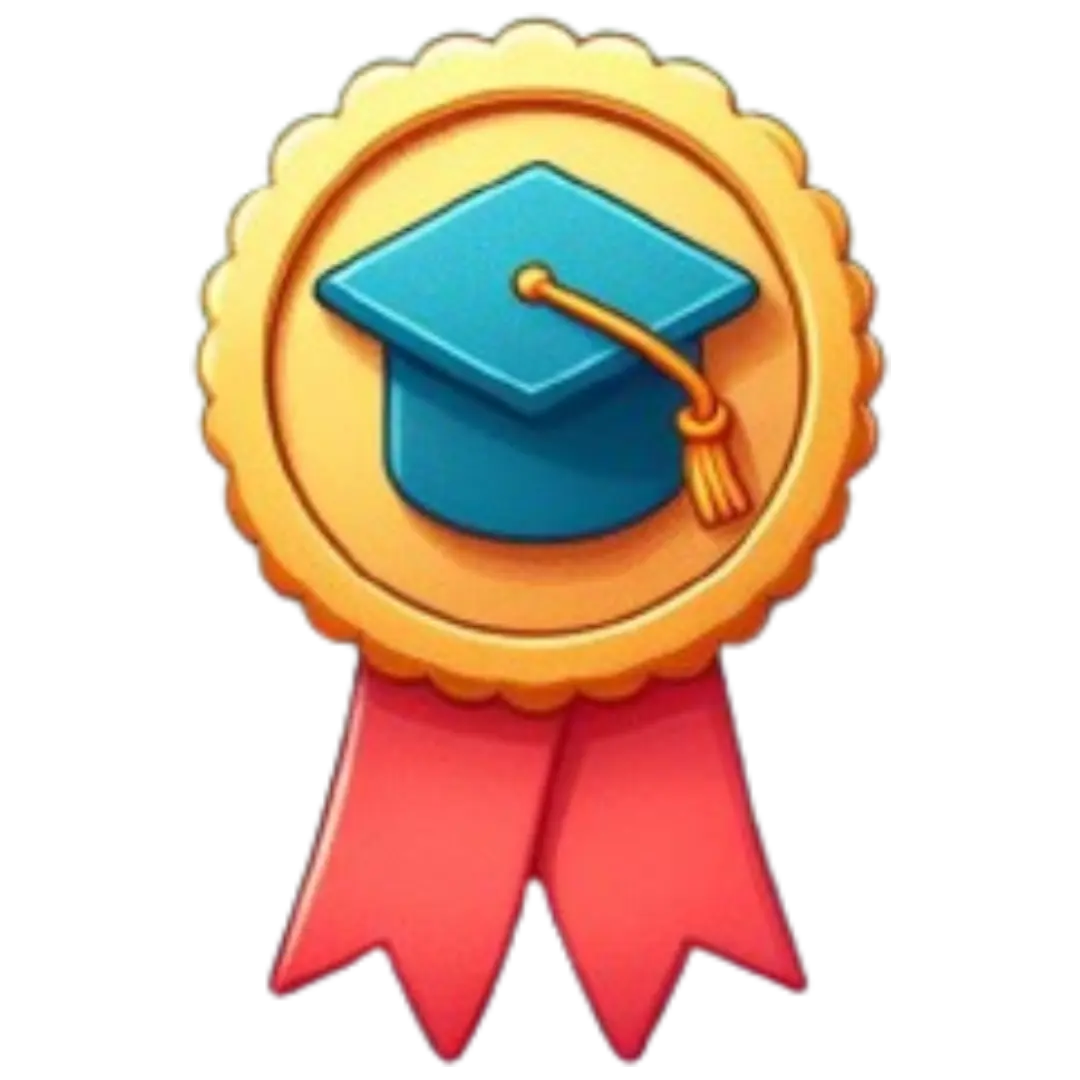
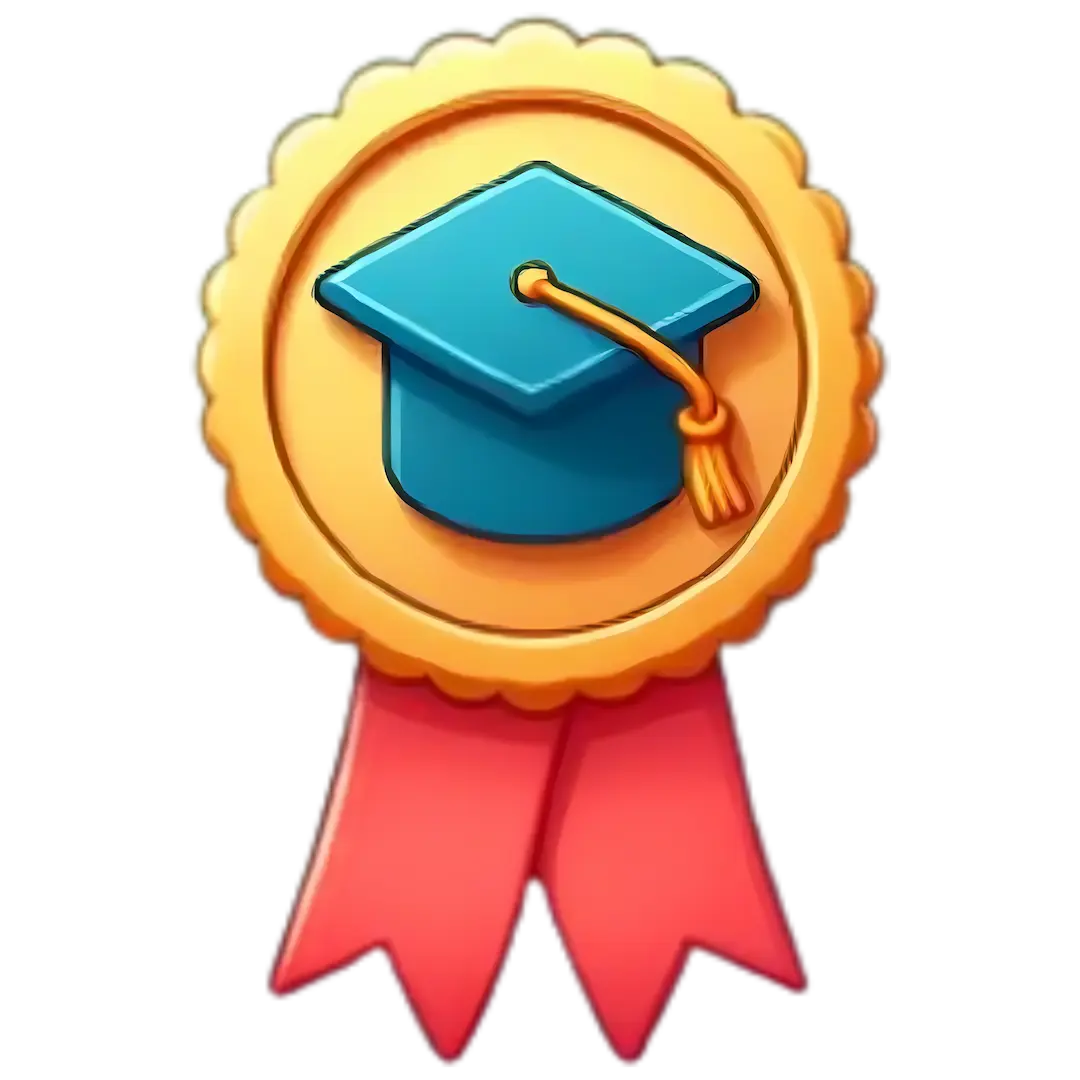
nuevas imagenes hd

diff --git a/assets/css/modal.css b/assets/css/modal.css
@@ -27,19 +27,19 @@
 
 .cir i {
     color: black;
-    font-size: 3rem;
+    font-size: 2rem;
     transition: all 0.2s ease-in;
 }
 
 .cir a {
-    width: 80px;
-    height: 80px;
+    width: 60px;
+    height: 60px;
     display: flex;
     align-items: center;
     justify-content: center;
     padding: 2px;
     margin: 10px;
-    border: 4px solid black;
+    border: 3px solid black;
     border-radius: 50%;
     transition: all 0.2s ease-in;
 }

diff --git a/assets/css/main.css b/assets/css/main.css
@@ -1905,3 +1905,14 @@ section,
 .perfil {
   position: absolute;
 }
+
+.salas-lista {
+  flex-direction: column;
+  justify-content: center;
+  /* align-items: center; */
+  margin: 20px;
+}
+
+.salas-lista .texto-salas{
+  text-align: left;
+}

diff --git a/assets/css/login.css b/assets/css/login.css
@@ -10,7 +10,7 @@ body {
     align-items: center;
     justify-content: center;
     height: 100vh;
-    background-image: url(../img/escuela.webp);
+    background-image: url(../img/importancia.webp);
     background-size: cover;
 }
 

diff --git a/bd/salas.php b/bd/salas.php
@@ -3,7 +3,15 @@ include 'conexion_be.php';
 
 session_start();
 
-if (isset($_POST['accion']) && $_POST['accion'] === 'nuevo') {
+
+$codigo_sala = $_GET['sala'] ?? null;
+$action = $_GET['action'] ?? null;
+
+if ($action === 'entrar') {
+    salaExistente2($conexion);
+} else if ($action === 'salir') {
+    salir($conexion);
+} else if (isset($_POST['accion']) && $_POST['accion'] === 'nuevo') {
     nuevaSala($conexion);
 } else {
     salaExistente($conexion);
@@ -205,5 +213,104 @@ function nuevaSala($conexion)
                 echo "Error al crear la sala: " . $conexion->error;
             }
         }
+    }
+}
+
+function salaExistente2($conexion)
+{
+    $codigo_sala = $_GET['sala'];
+    $nombre_usuario = $_SESSION['usuario'];
+
+    // Verificar si el usuario ya está en la sala
+    $consulta_existencia_estadisticas = "SELECT * FROM estadisticas WHERE usuario_nombre = '$nombre_usuario' AND codigo_sala = '$codigo_sala'";
+    $resultado_existencia_estadisticas = $conexion->query($consulta_existencia_estadisticas);
+
+    if ($resultado_existencia_estadisticas->num_rows > 0) {
+        $salaDificultad = "SELECT facil, medio, dificil FROM salas WHERE codigo_sala = '$codigo_sala'";
+        $resultadoSala = $conexion->query($salaDificultad);
+        $resultadoSala = $conexion->query($salaDificultad);
+        if ($resultadoSala) {
+            if ($resultadoSala->num_rows > 0) {
+                $filaRes = $resultadoSala->fetch_assoc();
+                $df1 = $filaRes["facil"];
+                $df2 = $filaRes["medio"];
+                $df3 = $filaRes["dificil"];
+                // Si el usuario ya está en la sala, redirigir a la página de temas
+                $update_usuarioYsala = "UPDATE usuarioysala SET codigo_sala = '$codigo_sala' WHERE usuario = '$nombre_usuario'";
+                $res = $conexion->query($update_usuarioYsala);
+                header("location: ../categoria.php?codigoSala=$codigo_sala&df1=$df1&df2=$df2&df3=$df3");
+                exit();
+            } else {
+                echo "No se encontraron resultados para el código de sala: $codigo_sala";
+            }
+        } else {
+            echo "Error al ejecutar la consulta: " . $conexion->error;
+        }
+        // header("location: ../categoria.php?codigoSala=$codigo_sala");
+        exit();
+    } else {
+        // Si el usuario no está en la sala, insertarlo en la tabla de Estadisticas
+        $consulta_sala_existente = "SELECT * FROM salas WHERE codigo_sala = '$codigo_sala'";
+        $resultado_sala_existente = $conexion->query($consulta_sala_existente);
+
+        if ($resultado_sala_existente->num_rows > 0) {
+            $consulta_existencia_usuarioEnSala = "SELECT * FROM usuarioysala WHERE usuario = '$nombre_usuario'";
+            $resultado_existencia_usuarioEnSala = $conexion->query($consulta_existencia_usuarioEnSala);
+
+            if (!($resultado_existencia_usuarioEnSala->num_rows > 0)) {
+                $insert_usuarioYsala = "INSERT INTO usuarioysala (usuario, codigo_sala) VALUES ('$nombre_usuario', '$codigo_sala')";
+                $rest = $conexion->query($insert_usuarioYsala);
+            } else {
+                $update_usuarioYsala = "UPDATE usuarioysala SET codigo_sala = '$codigo_sala' WHERE usuario = '$nombre_usuario'";
+                $res = $conexion->query($update_usuarioYsala);
+            }
+
+
+            // Si la sala existe, insertar al usuario en la tabla de Estadisticas
+            $insertar_usuario_estadisticas = "INSERT INTO estadisticas (usuario_nombre, codigo_sala) VALUES ('$nombre_usuario', '$codigo_sala')";
+            $insertar_usuario_estadisticas2 = "INSERT INTO estadisticasbasicas (usuario_nombre, codigo_sala) VALUES ('$nombre_usuario', '$codigo_sala')";
+            $conexion->query($insertar_usuario_estadisticas);
+            $conexion->query($insertar_usuario_estadisticas2);
+
+            $salaDificultad = "SELECT facil, medio, dificil FROM salas WHERE codigo_sala = '$codigo_sala'";
+            $resultadoSala = $conexion->query($salaDificultad);
+            $resultadoSala = $conexion->query($salaDificultad);
+            if ($resultadoSala) {
+                if ($resultadoSala->num_rows > 0) {
+                    $filaRes = $resultadoSala->fetch_assoc();
+                    $df1 = $filaRes["facil"];
+                    $df2 = $filaRes["medio"];
+                    $df3 = $filaRes["dificil"];
+                    header("location: ../categoria.php?codigoSala=$codigo_sala&df1=$df1&df2=$df2&df3=$df3");
+                    exit();
+                } else {
+                    echo "No se encontraron resultados para el código de sala: $codigo_sala";
+                }
+            } else {
+                echo "Error al ejecutar la consulta: " . $conexion->error;
+            }
+        } else {
+            // Si la sala no existe, mostrar un mensaje de error
+            header("location: ../index.php?error=sala_no_encontrada");
+            exit();
+        }
+    }
+}
+
+function salir($conexion)
+{
+    $codigo_sala = $_GET['sala'];
+    $nombre_usuario = $_SESSION['usuario'];
+
+    // Eliminar los registros del usuario en las tablas estadisticas y estadisticasbasicas
+    $eliminarEstadisticas = "DELETE FROM estadisticas WHERE usuario_nombre = '$nombre_usuario' AND codigo_sala = '$codigo_sala'";
+    $eliminarEstadisticasBasicas = "DELETE FROM estadisticasbasicas WHERE usuario_nombre = '$nombre_usuario' AND codigo_sala = '$codigo_sala'";
+
+    if ($conexion->query($eliminarEstadisticas) && $conexion->query($eliminarEstadisticasBasicas)) {
+        // Redirigir al usuario a una página de confirmación o a la página principal
+        header("Location: ../index.php?mensaje=salida_exitosa");
+        exit();
+    } else {
+        echo "Error al eliminar los registros: " . $conexion->error;
     }
 }

diff --git a/index.php b/index.php
@@ -90,7 +90,7 @@ session_start();
             </div>
           </div>
           <div class="col-lg-6 order-1 order-lg-2 hero-img" data-aos="zoom-out" data-aos-delay="200">
-            <img src="assets/img/lander.webp" class="img-fluid animated" alt="Ortographic Lander">
+            <img src="assets/img/hero-ort.webp" class="img-fluid animated" alt="Ortographic Lander">
           </div>
         </div>
       </div>
@@ -224,7 +224,7 @@ session_start();
     <!-- Call To Action Section -->
     <section id="call-to-action" class="call-to-action section">
 
-      <img src="assets/img/escuela.webp" alt="">
+      <img src="assets/img/importancia.webp" alt="FOndo">
 
       <div class="container">
 
@@ -876,8 +876,60 @@ session_start();
             <div class="container">
               <div class="row">
                 <h3 class="modal-title fs-5" id="staticBackdropLabel">Salas privadas</h3>
-                <h5>Disfruta jugando en una sala privada con tus amigos, puedes crear una sala privada o unirte a una utilizando su id.</h5>
+                <h5 class="mb-3">Disfruta jugando en una sala privada con tus amigos, puedes crear una sala privada o unirte a una utilizando su id.</h5>
                 <br>
+                <div class="col-12 d-flex text-center salas-lista">
+                  <?php
+                  include 'bd/conexion_be.php';
+
+                  $nombreUsuario = $_SESSION['usuario'] ?? null;
+
+                  // Paso 1: Obtener todos los codigo_sala asociados al usuario
+                  $consultaEstadisticasSalas = "SELECT codigo_sala FROM estadisticas WHERE usuario_nombre = '$nombreUsuario'";
+                  $resultado1 = $conexion->query($consultaEstadisticasSalas);
+
+                  $codigosSala = [];
+                  if ($resultado1) {
+                    while ($fila = $resultado1->fetch_assoc()) {
+                      // Excluir el codigo_sala 'A0123'
+                      if ($fila['codigo_sala'] !== 'A0123') {
+                        $codigosSala[] = $fila['codigo_sala'];
+                      }
+                    }
+                  }
+
+                  if (!empty($codigosSala)) {
+                    // Convertir el array de codigosSala a una cadena para usar en la consulta SQL
+                    $codigosSalaString = implode(",", array_map(function ($codigo) {
+                      return "'$codigo'";
+                    }, $codigosSala));
+
+                    // Paso 2: Obtener la información de las salas usando los codigos_sala obtenidos
+                    $consultaSalas = "SELECT * FROM salas WHERE codigo_sala IN ($codigosSalaString)";
+                    $resultadoSalas = $conexion->query($consultaSalas);
+
+                    if ($resultadoSalas) {
+                      // Paso 3: Mostrar la información de las salas
+                      while ($fila = $resultadoSalas->fetch_assoc()) {
+                        echo '<li class="list-group-item d-flex justify-content-between mb-2">';
+                        echo '<div class="texto-salas">';
+                        echo '<strong>' . $fila['codigo_sala'] . '</strong><br>';
+                        echo $fila['nombre_sala'];
+                        echo '</div>';
+                        echo '<div>';
+                        echo '<a href="bd/salas.php?action=entrar&sala=' . $fila['codigo_sala'] . '" class="btn btn-success btn-sm">Entrar</a> ';
+                        echo '<a class="btn btn-danger btn-sm" onclick="confirmarSalida(\'' . $fila['codigo_sala'] . '\')">Salir</a>';
+                        echo '</div>';
+                        echo '</li>';
+                      }
+                    } else {
+                      echo "No se pudieron obtener los datos de las salas.";
+                    }
+                  } else {
+                    echo "No se encontraron salas para este usuario.";
+                  }
+                  ?>
+                </div>
                 <div class="col-12 col-md-6">
                   <div class="cir d-flex flex-wrap align-items-center justify-content-center">
                     <a type="button" data-bs-toggle="modal" data-bs-target="#salasModal2" id="ing" href="">
@@ -893,7 +945,7 @@ session_start();
                         <i class="bi bi-cloud-arrow-up"></i>
                       </a>
                     </div>
-                    <p>Ingresar a una sala existente</p>
+                    <p>Agregar una sala existente</p>
                   </div>
                 </div>
               </div>
@@ -1175,6 +1227,23 @@ session_start();
         });
       <?php } ?>
     });
+
+    function confirmarSalida(codigoSala) {
+      Swal.fire({
+        title: '¿Estás seguro?',
+        text: "¡Todos tus datos se borrarán y no podrás revertir esto!",
+        icon: 'warning',
+        showCancelButton: true,
+        confirmButtonColor: '#3085d6',
+        cancelButtonColor: '#d33',
+        confirmButtonText: 'Sí, salir',
+        cancelButtonText: 'Cancelar'
+      }).then((result) => {
+        if (result.isConfirmed) {
+          window.location.href = 'bd/salas.php?action=salir&sala=' + codigoSala;
+        }
+      });
+    }
   </script>
 
 
